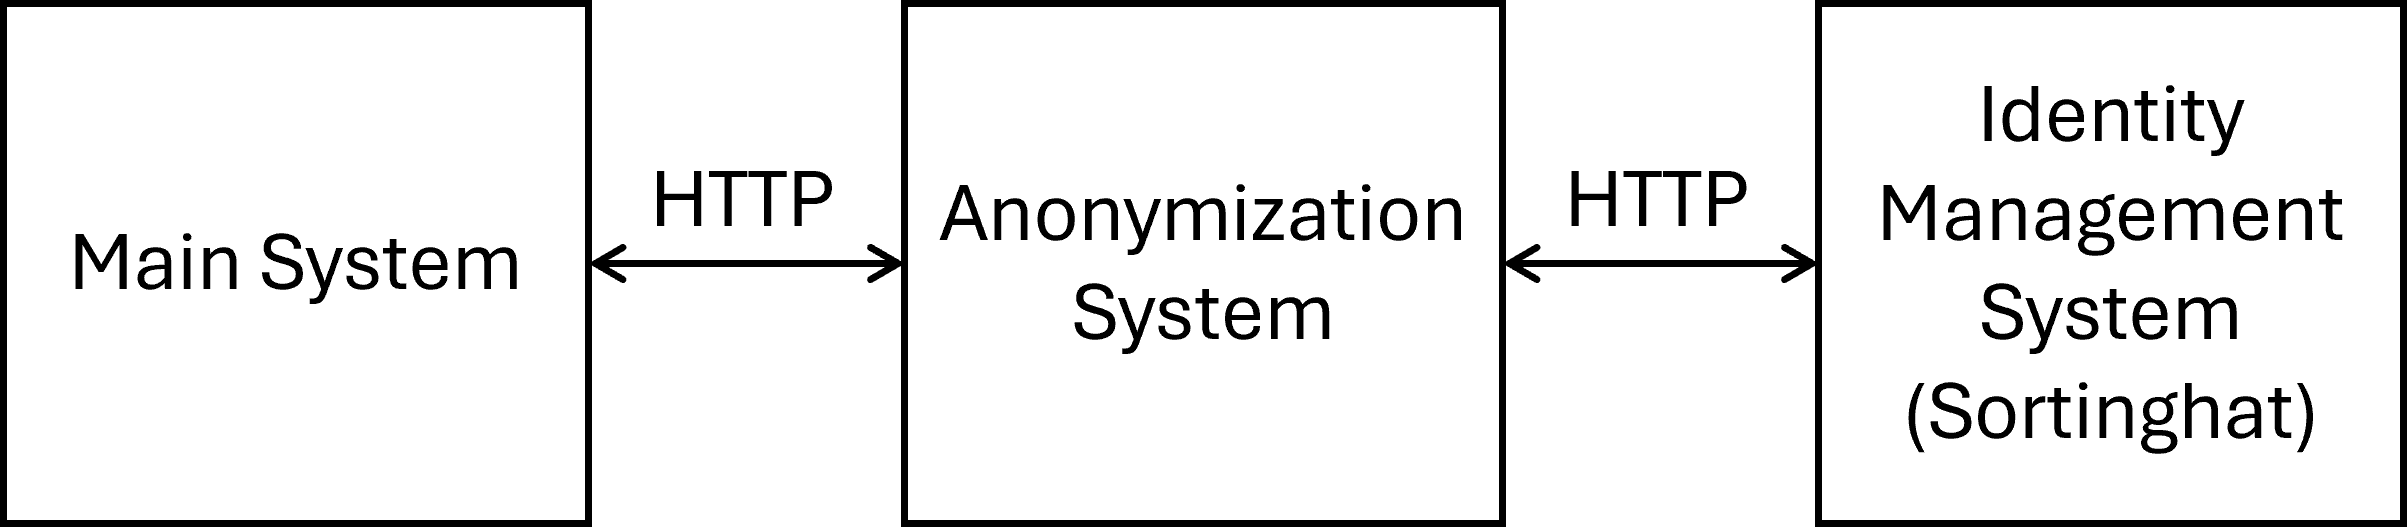
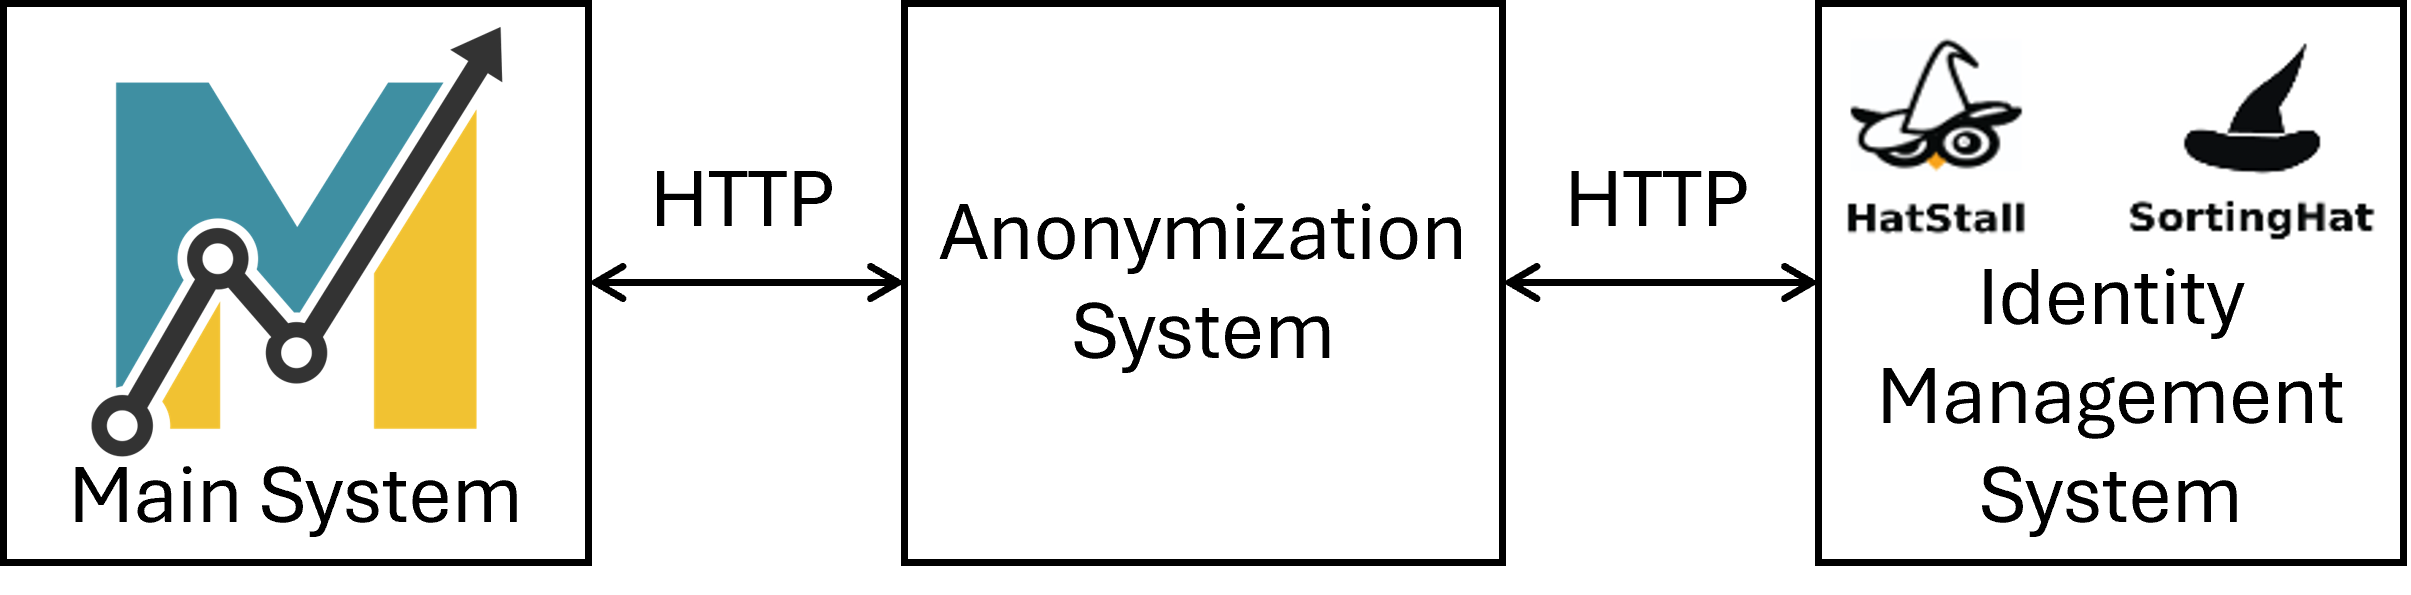
chapter 6 finished

diff --git a/contents/6_design_and_implementation.tex b/contents/6_design_and_implementation.tex
@@ -254,7 +254,7 @@ A specialized client interface designed to communicate directly with the Sorting
 \subsection{Implementing the Server}
 \label{subsec:implementing_the_server}
 
-To minimize external software dependencies, the implementation utilizes Python's built-in \texttt{http.server} module \autocite{python_http_server_2026}. Table \ref{tab:server_endpoints} outlines the endpoints exposed by the server, categorized by HTTP request method.
+To minimize external software dependencies, the implementation utilizes Python's built-in \texttt{http.server} module \autocite{python_http_server_2026}. Table \ref{tab:server_endpoints} outlines the endpoints exposed by the server, categorized by HTTP request method. Figure \ref{fig:server_flow} represents, how the server handles each request.
 
 \begin{table}[ht]
 	\centering
@@ -280,6 +280,12 @@ To minimize external software dependencies, the implementation utilizes Python's
 		\hline
 	\end{tabular}
 \end{table}
+
+\begin{figure}[ht]
+	\includegraphics[width=\textwidth]{resources/server_flow.png}
+	\caption{Server Diagram} 
+	\label{fig:server_flow}
+\end{figure}
 
 \paragraph{\texttt{docker-compose-healthcheck}}
 Provides a health-check endpoint queried periodically by Docker Compose during containerized deployment (see Section \ref{subsec:deploying_the_server}).

diff --git a/contents/3_literature_review.tex b/contents/3_literature_review.tex
@@ -12,7 +12,7 @@ The standard reference work on employee data protection is \textcite{daeubler201
 
 In the context of data protection and research, the operationalization of de-identification procedures under the \ac{DSGVO} is addressed by two central German guidelines that provide both technical and legal frameworks. \textcite{schwartmann2022praxisleitfaden} establishes a structured procedural model that distinguishes between theoretical "absolute anonymity" and the more practically relevant "factual anonymization," where re-identification is considered impossible due to the disproportionate effort required in terms of time, cost, and manpower. Complementing this, \textcite{gmdsbvd2024praxishilfe} focuses specifically on the sensitive domain of health data under Art. 9 \ac{GDPR}, highlighting the necessity of aligning national definitions with the broader European legal framework provided by Directive (EU) 2019/1024. While \textcite{schwartmann2022praxisleitfaden} categorizes technical methods—such as randomization (e.g., differential privacy) and generalization (e.g., k-anonymity)—into specific application classes like AI algorithm training or software testing, \textcite{gmdsbvd2024praxishilfe} provides detailed risk assessments for specific attack scenarios, including "singling out," inference, and linkage attacks. Both sources emphasize that anonymity is not a static state but a dynamic process that must be continuously evaluated against the evolving "state of science and technology". Furthermore, they converge on the legal requirement that both anonymization and pseudonymization constitute "processing" activities under the  \ac{GDPR}, therefore requiring a valid legal basis and remaining subject to the controller's accountability obligations.
 
-The monograph \textcite{Krebs2022} provides a comprehensive examination of data protection techniques tailored for modern, data-driven environments. The authors systematically bridge the gap between legal requirements under the \ac{GDPR} and \ac{BDSG} and the technical implementation of protective measures. The work categorizes attributes into direct, indirect, and sensitive identifiers to address risks such as singling out, linkage, and inference. Beyond traditional methods like k-anonymity and generalization, the book explores advanced privacy-preserving paradigms including differential privacy, synthetic data generation via \acp{GANs}, and federated machine learning. By addressing the specific challenges of both structured and unstructured data — such as text and multimedia — the authors offer a dual perspective on the legal and technical "building blocks" necessary for maintaining privacy in the era of high-dimensional Big Data analysis.
+The monograph \textcite{Krebs2022} provides a comprehensive examination of data protection techniques tailored for modern, data-driven environments. The authors systematically bridge the gap between legal requirements under the \ac{GDPR} and \ac{BDSG} and the technical implementation of protective measures. The work categorizes attributes into direct, indirect, and sensitive identifiers to address risks such as singling out, linkage, and inference. Beyond traditional methods like k-anonymity and generalization, the book explores advanced privacy-preserving paradigms including differential privacy, synthetic data generation via \acp{GAN}, and federated machine learning. By addressing the specific challenges of both structured and unstructured data — such as text and multimedia — the authors offer a dual perspective on the legal and technical "building blocks" necessary for maintaining privacy in the era of high-dimensional Big Data analysis.
 
  \section{Identity Management}
 \label{sec:identity_management}